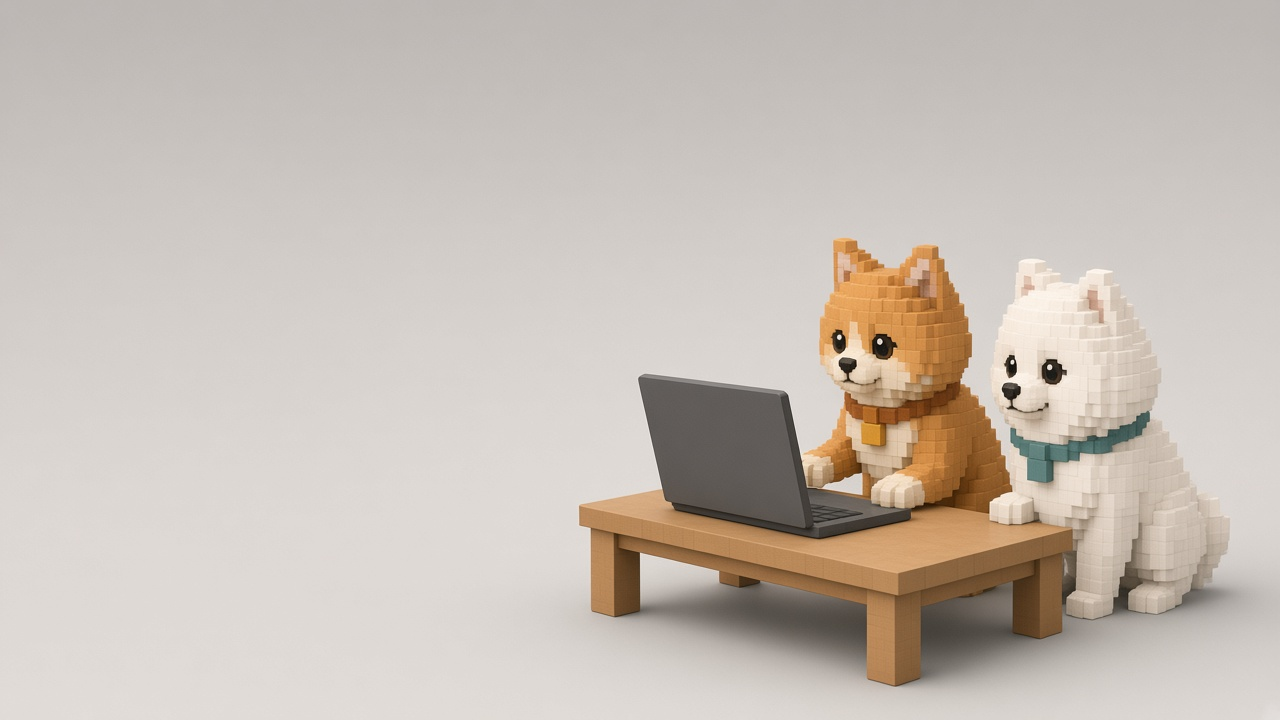
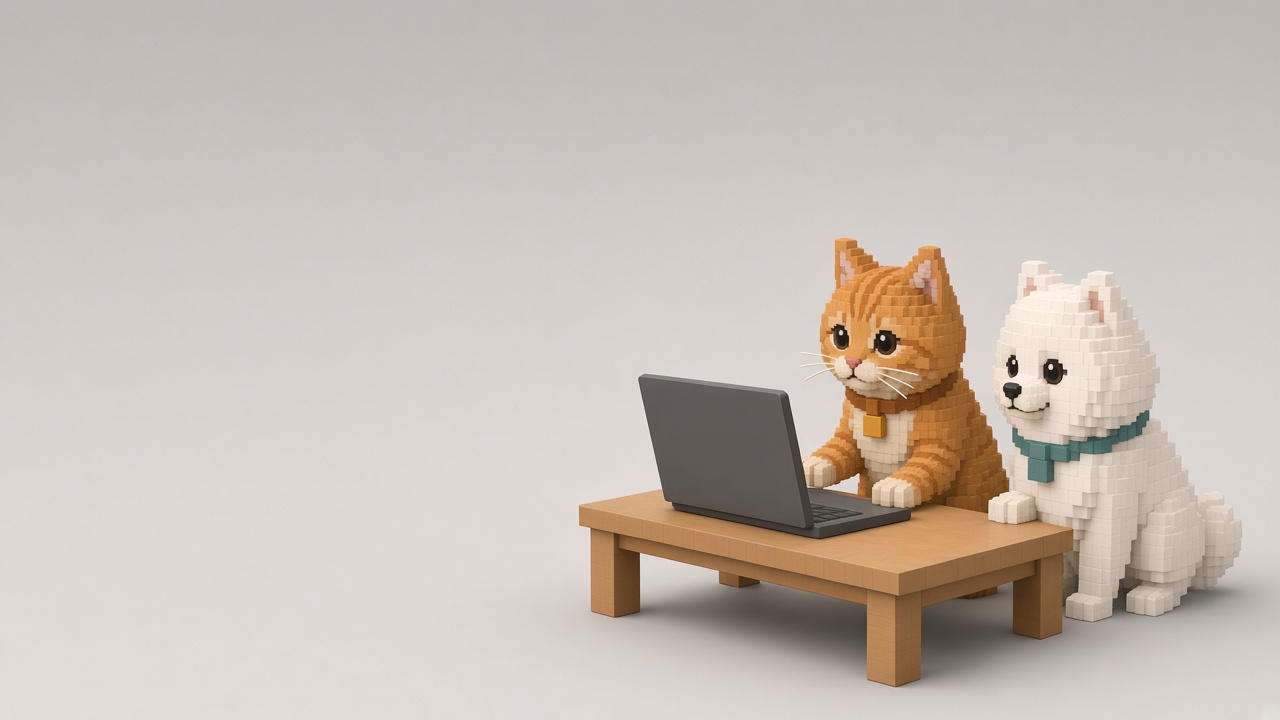
Replace hero with corrected ginger tabby cat guide asset
Parent-verified still: tabby stripes, feline nose and whiskers; Pom learner unchanged.

diff --git a/apps/web/lib/mascot-content.ts b/apps/web/lib/mascot-content.ts
@@ -1,8 +1,8 @@
-/** Mascot copy — roles: white Pomeranian = learner, ginger cat = guide. */
+/** Mascot copy — roles: white Pomeranian = learner, ginger tabby cat = guide. */
 
 export const MASCOT_HERO = {
   src: "/mascots/hero-desk-16x9.jpg",
-  alt: "Voxel-style illustration: a ginger cat types at a laptop on a desk while a white Pomeranian with a teal collar watches the screen attentively. Characters sit on the right; open space on the left for headings.",
+  alt: "Voxel-style illustration: a ginger tabby cat with stripes, pink nose, and whiskers types at a laptop on a desk while a white Pomeranian with a teal collar watches the screen. Guide cat on the left at the keyboard; learner dog on the right. Open space on the left edge for headings.",
   width: 1920,
   height: 1080,
 } as const;

diff --git a/apps/web/components/mascot-hero.tsx b/apps/web/components/mascot-hero.tsx
@@ -23,8 +23,8 @@ export function MascotHero({ compact = false }: MascotHeroProps) {
         priority={!compact}
       />
       <figcaption className="field-note">
-        Character still (review draft). Guide = ginger cat; learner = white
-        Pomeranian. Not a recorded software lesson.
+        Character still (review draft). Guide = ginger tabby cat; learner =
+        white Pomeranian. Not a recorded software lesson.
       </figcaption>
     </figure>
   );

diff --git a/apps/web/components/mascot-slot.tsx b/apps/web/components/mascot-slot.tsx
@@ -20,8 +20,8 @@ export function MascotSlot({ compact = true }: { compact?: boolean }) {
         className="mascot-slot__thumb"
       />
       <p className="field-note">
-        Guide (ginger cat) and learner (white Pomeranian). Character still—not
-        recorded lesson footage.
+        Guide (ginger tabby cat) and learner (white Pomeranian). Character
+        still—not recorded lesson footage.
       </p>
     </aside>
   );
